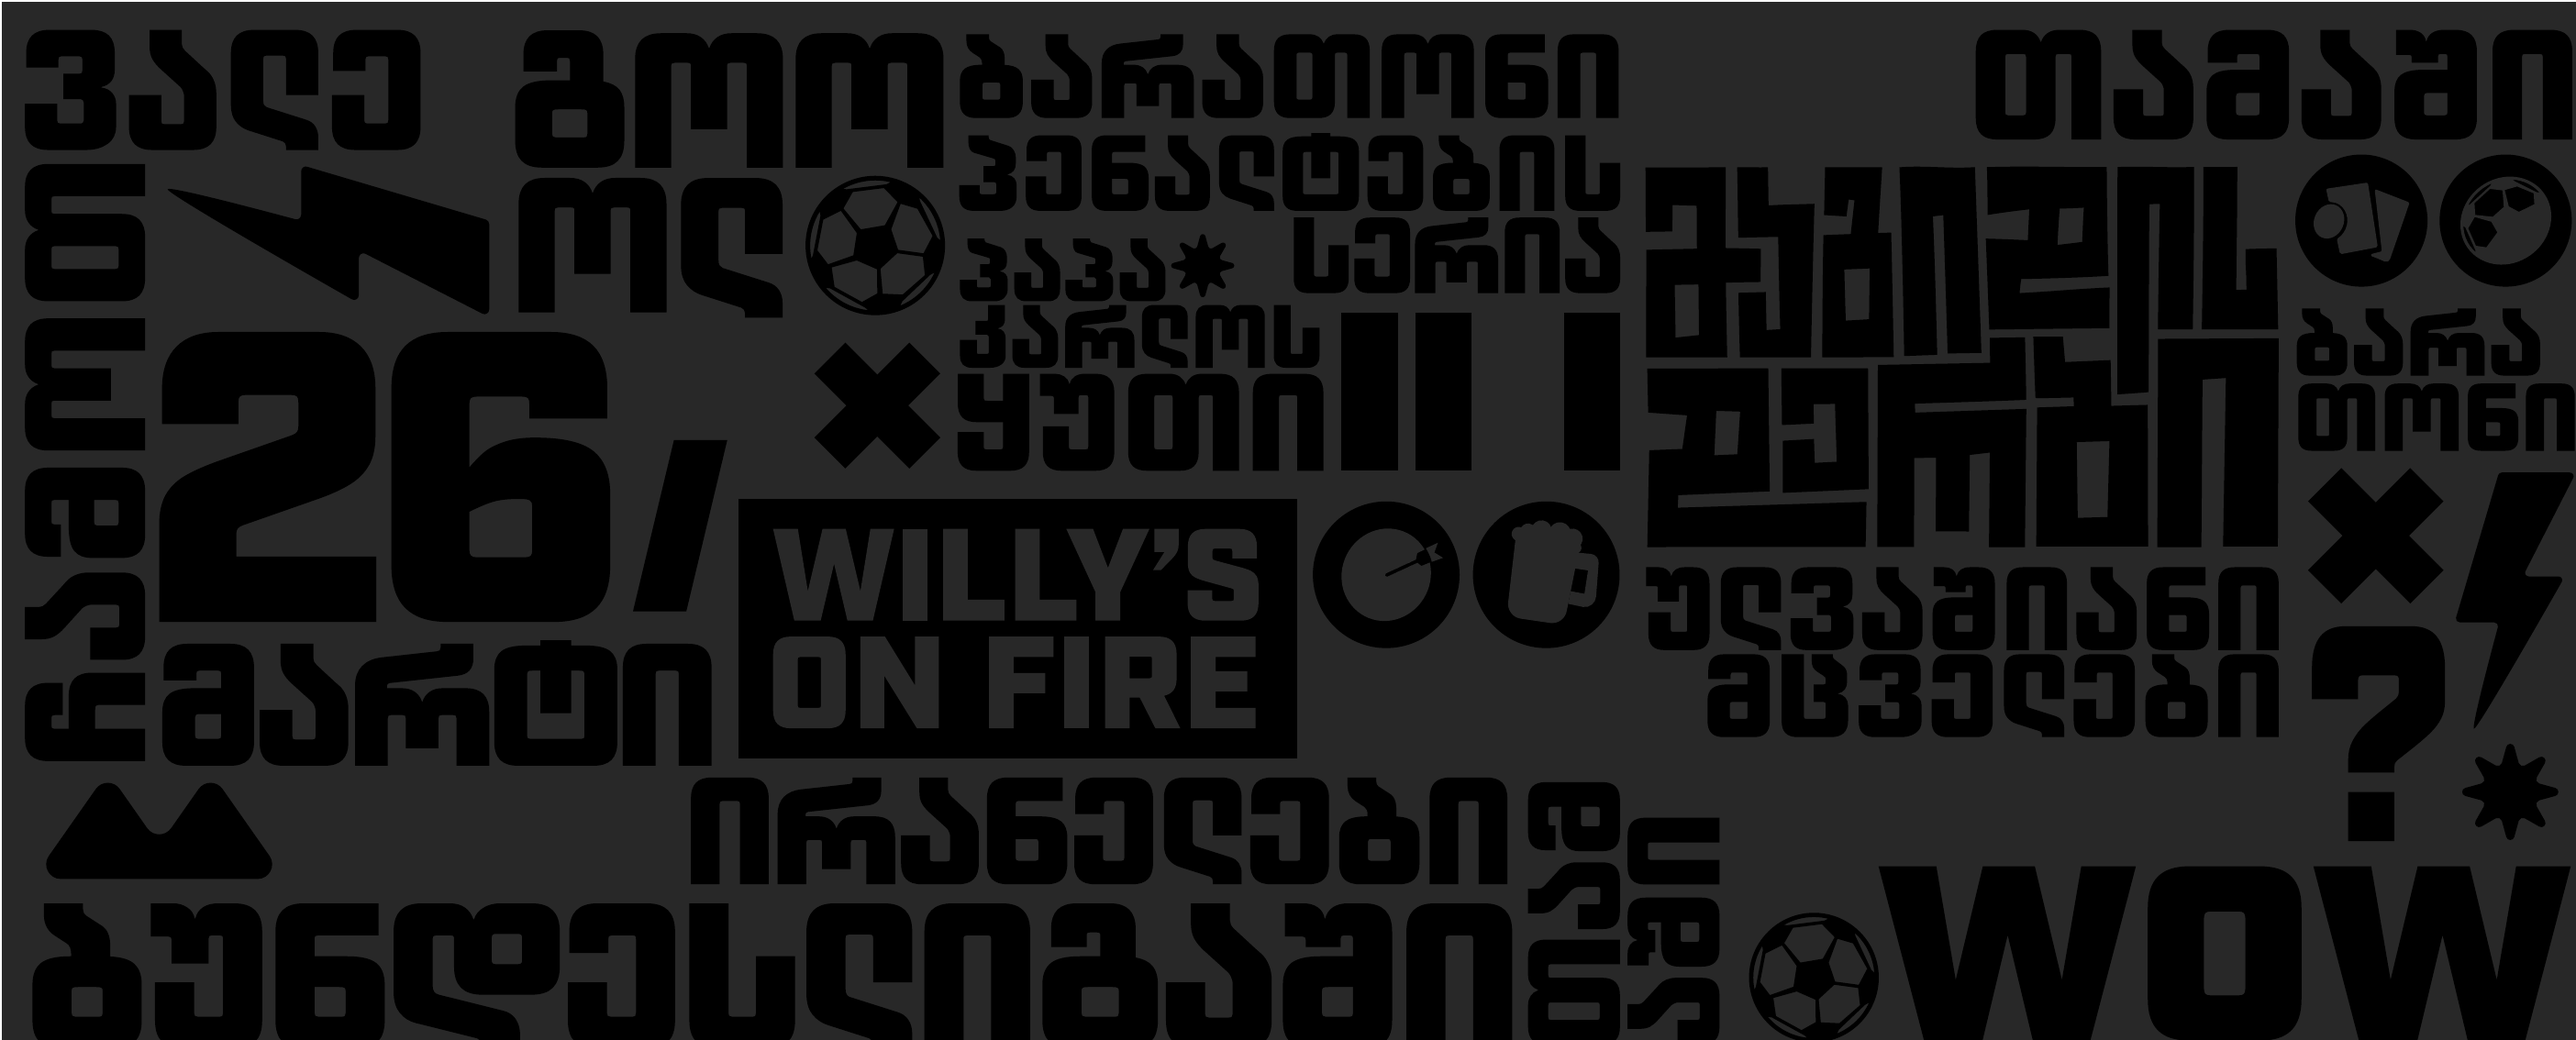
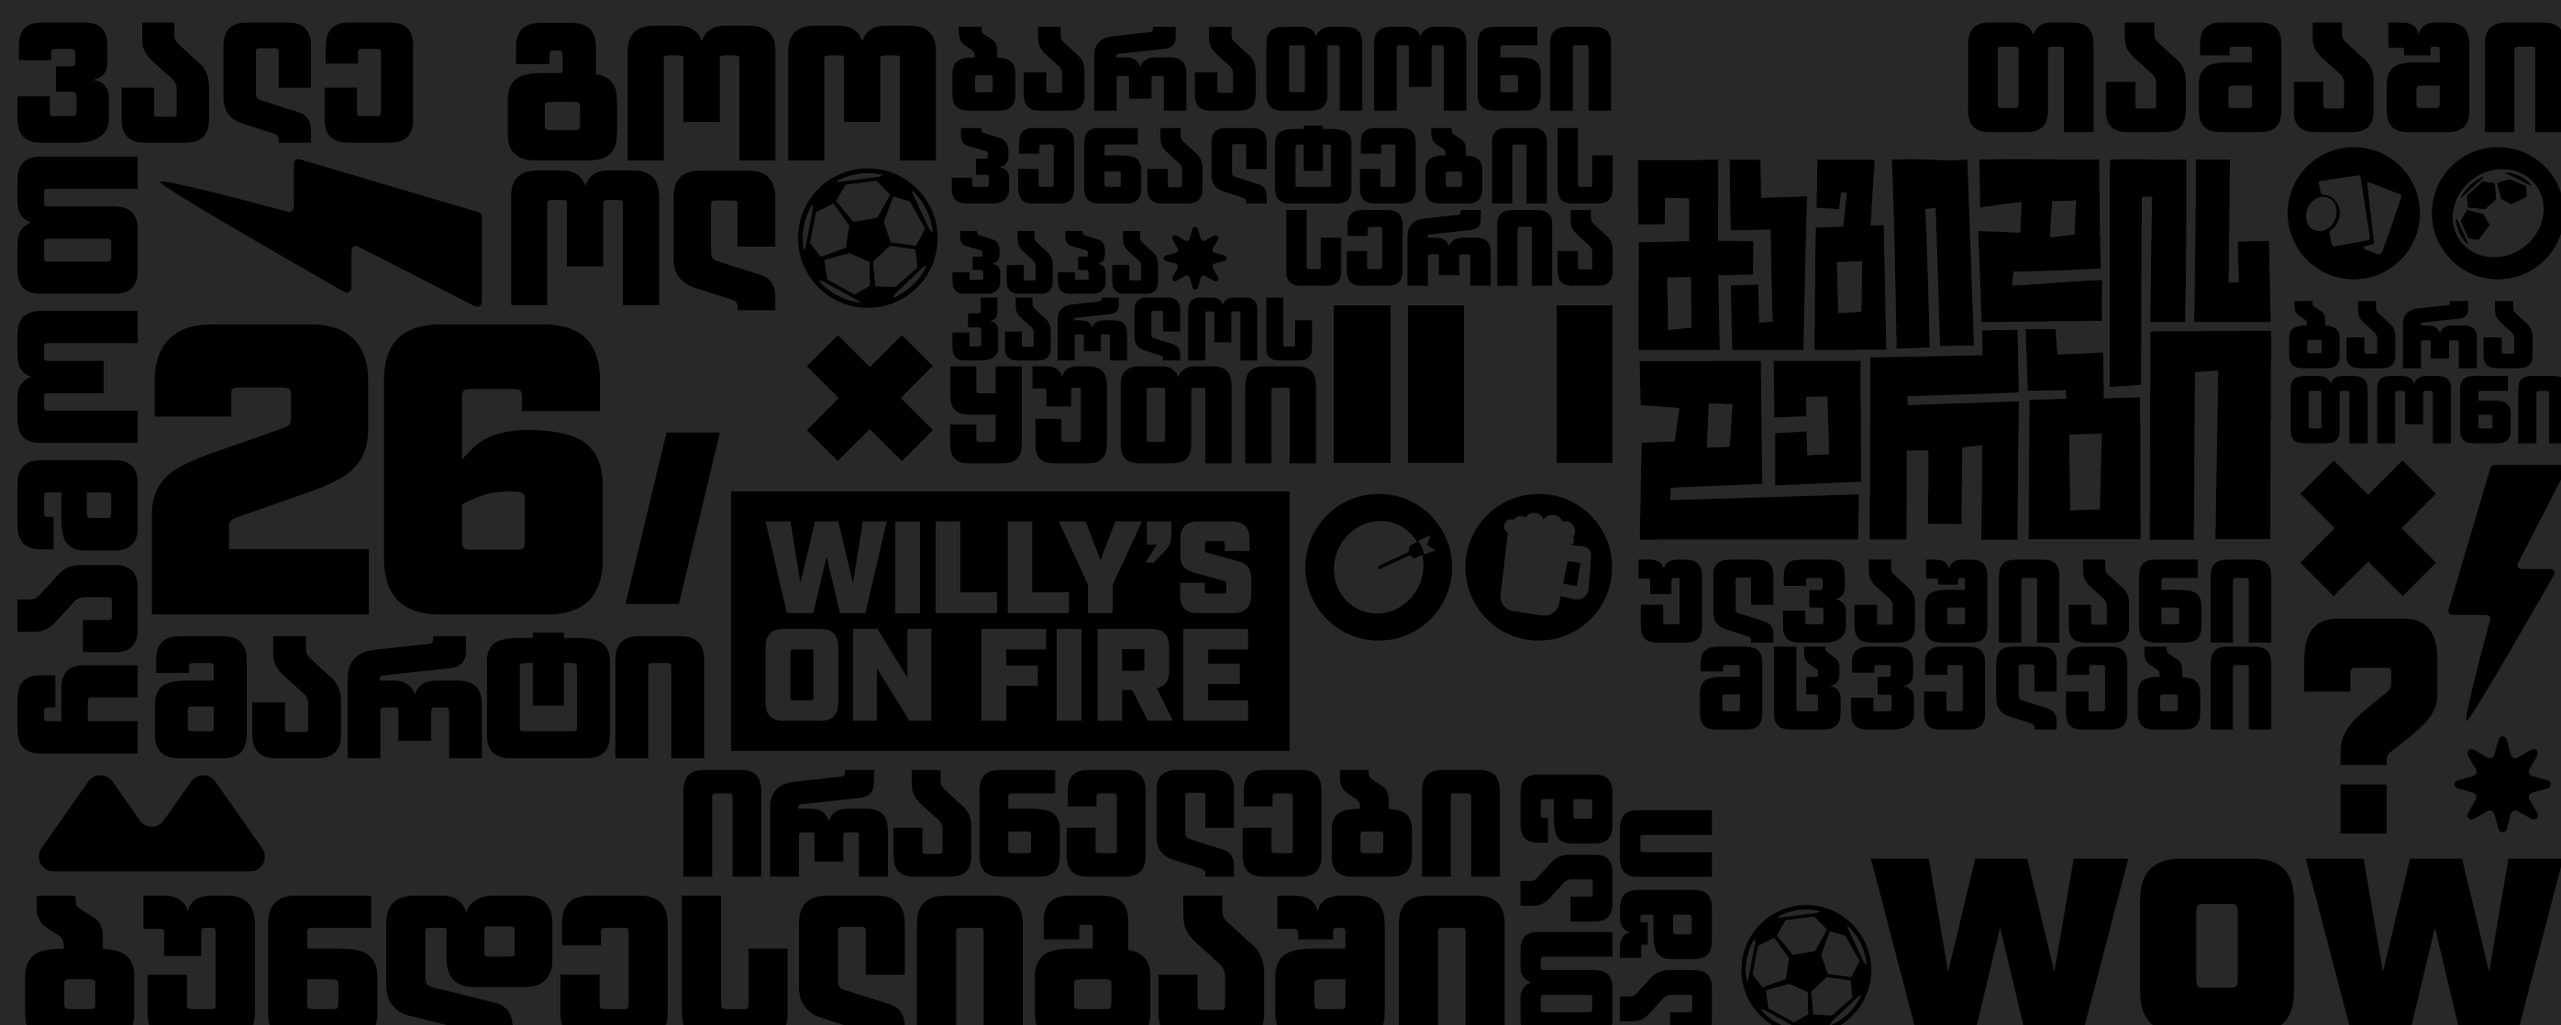
fix(table-derby): seam-free single mural background at natural scale
- Re-cropped both mural panels with an 8px inset — the previous crop
  caught a 1px page-gutter row that rendered as a white line
- Ground color now matches the panel's baked background (#282828), so
  the single centered image (min 980px wide, no cover-zoom, no repeat)
  blends seamlessly at any viewport — verified by pixel-scanning
  screenshots for stray bright rows

diff --git a/src/features/table-derby/components/brand.tsx b/src/features/table-derby/components/brand.tsx
@@ -138,7 +138,10 @@ export function MuralBackdrop({ dim = 1, accent = false }: { dim?: number; accen
       style={{
         opacity: dim,
         backgroundImage: `url(/assets/table-derby/bg-mural-${accent ? 'accent' : 'dark'}.png)`,
-        backgroundSize: 'cover',
+        // Natural scale, no cover-zoom: at least 980px of artwork width,
+        // centered; the ground color equals the panel's baked background
+        // so uncovered areas blend seamlessly (no bands, no gaps).
+        backgroundSize: 'max(100%, 980px) auto',
         backgroundPosition: 'center',
         backgroundRepeat: 'no-repeat',
       }}

diff --git a/src/styles/table-derby.css b/src/styles/table-derby.css
@@ -34,7 +34,9 @@
   --td-steel-deep: #2c3e50;
 
   /* ── Semantic ─────────────────────────────────────────────────── */
-  --td-bg: var(--td-black);
+  /* Ground matches the official mural panel's baked-in background
+     (#282828) so the artwork blends seamlessly at any scale. */
+  --td-bg: #282828;
   --td-surface: var(--td-charcoal);
   --td-surface-inverse: var(--td-paper); /* white sticker cards           */
   --td-primary: var(--td-orange);
